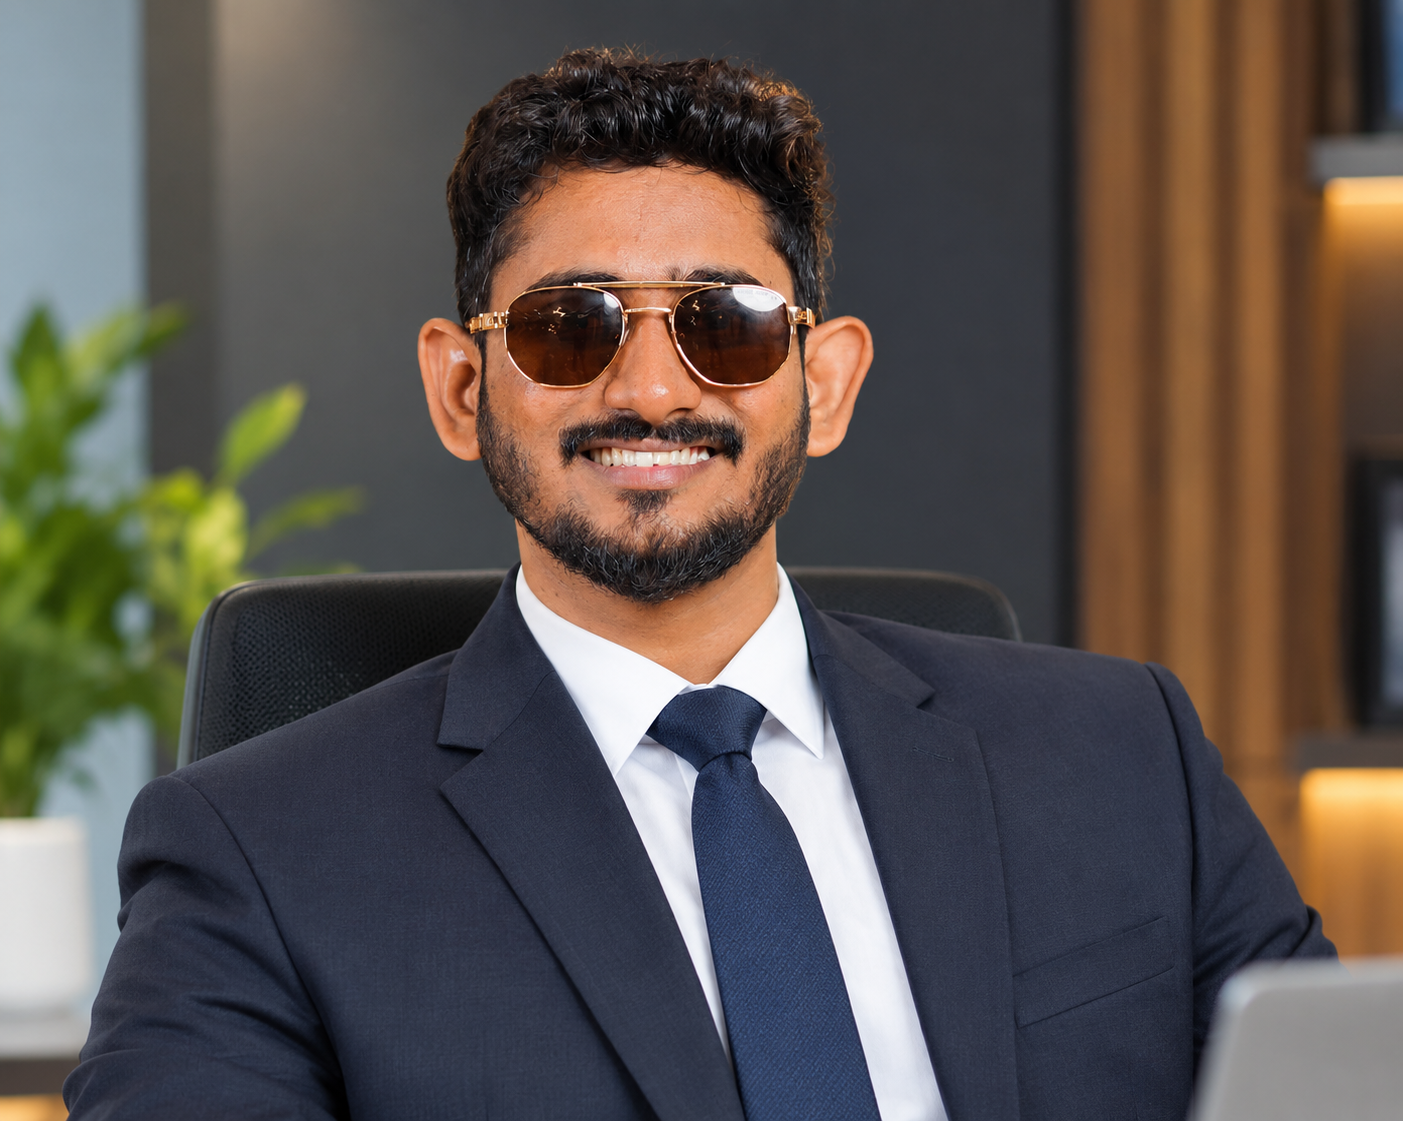
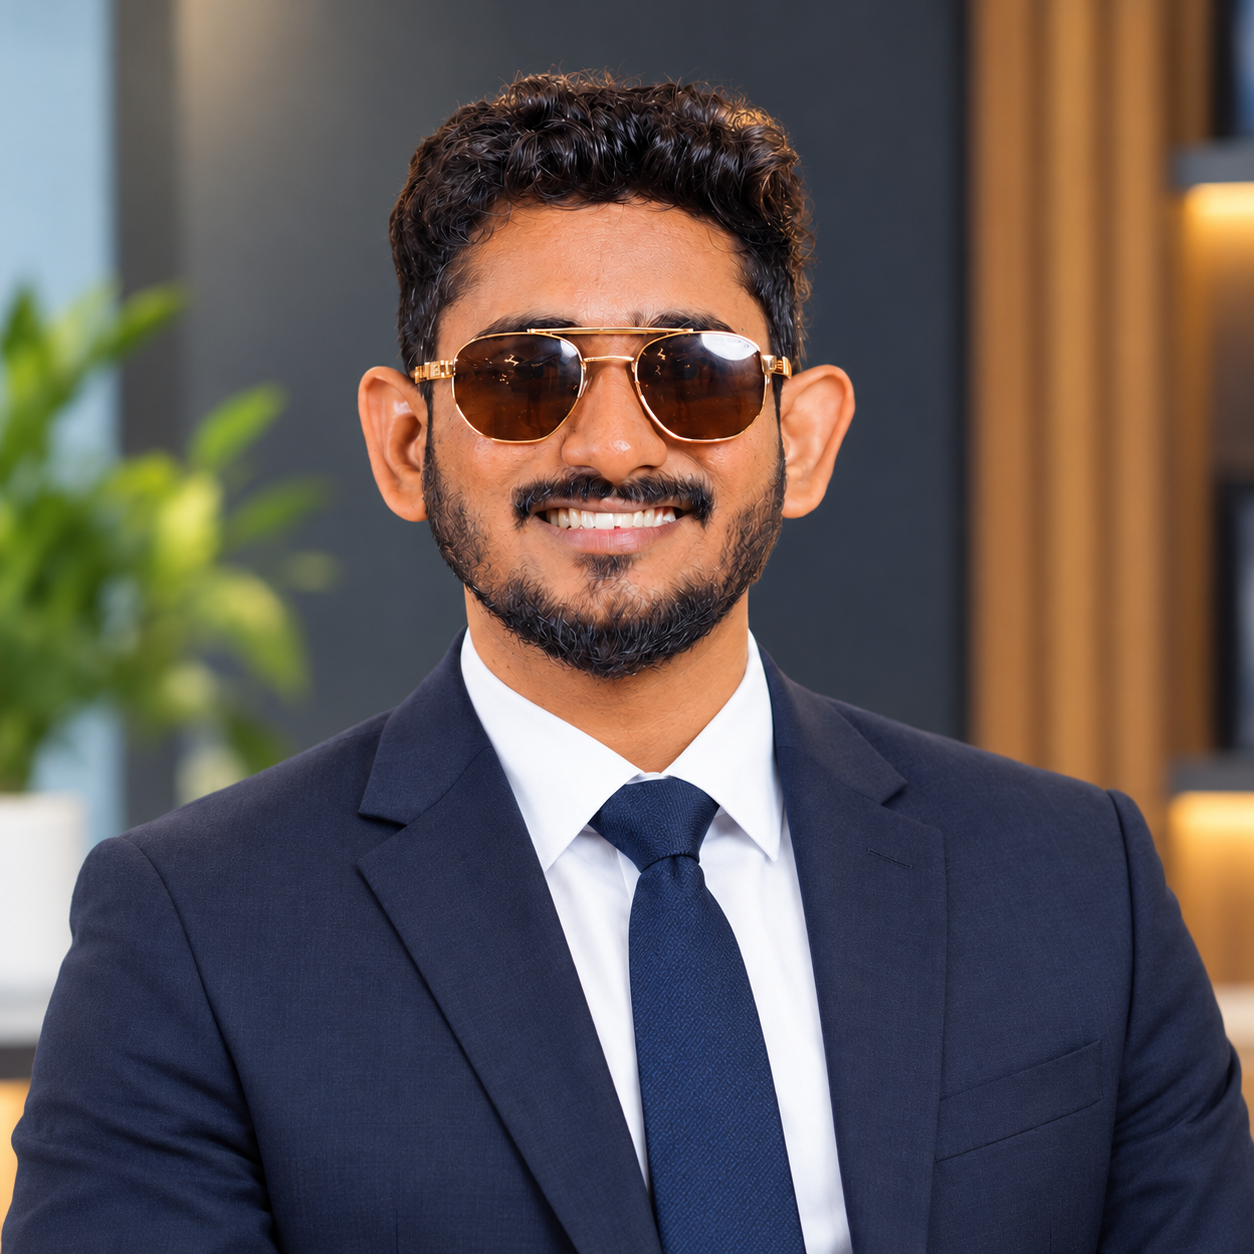
image changes

diff --git a/src/Pages/aboutus.js b/src/Pages/aboutus.js
@@ -87,8 +87,8 @@ const About = () => {
             >
               <div className="w-32 h-32 sm:w-36 sm:h-36 rounded-lg  overflow-hidden flex-shrink-0">
                 <img
-                  data-scroll-photo src="/ceo-288.webp"
-                  width="288" height="230"
+                  src="/ceo-portrait-288.webp"
+                  width="288" height="288"
                   alt="Mohammed Jaffar Bin Azeez Basha, founder and CEO"
                   className="w-full h-full object-cover object-center"
                 />
